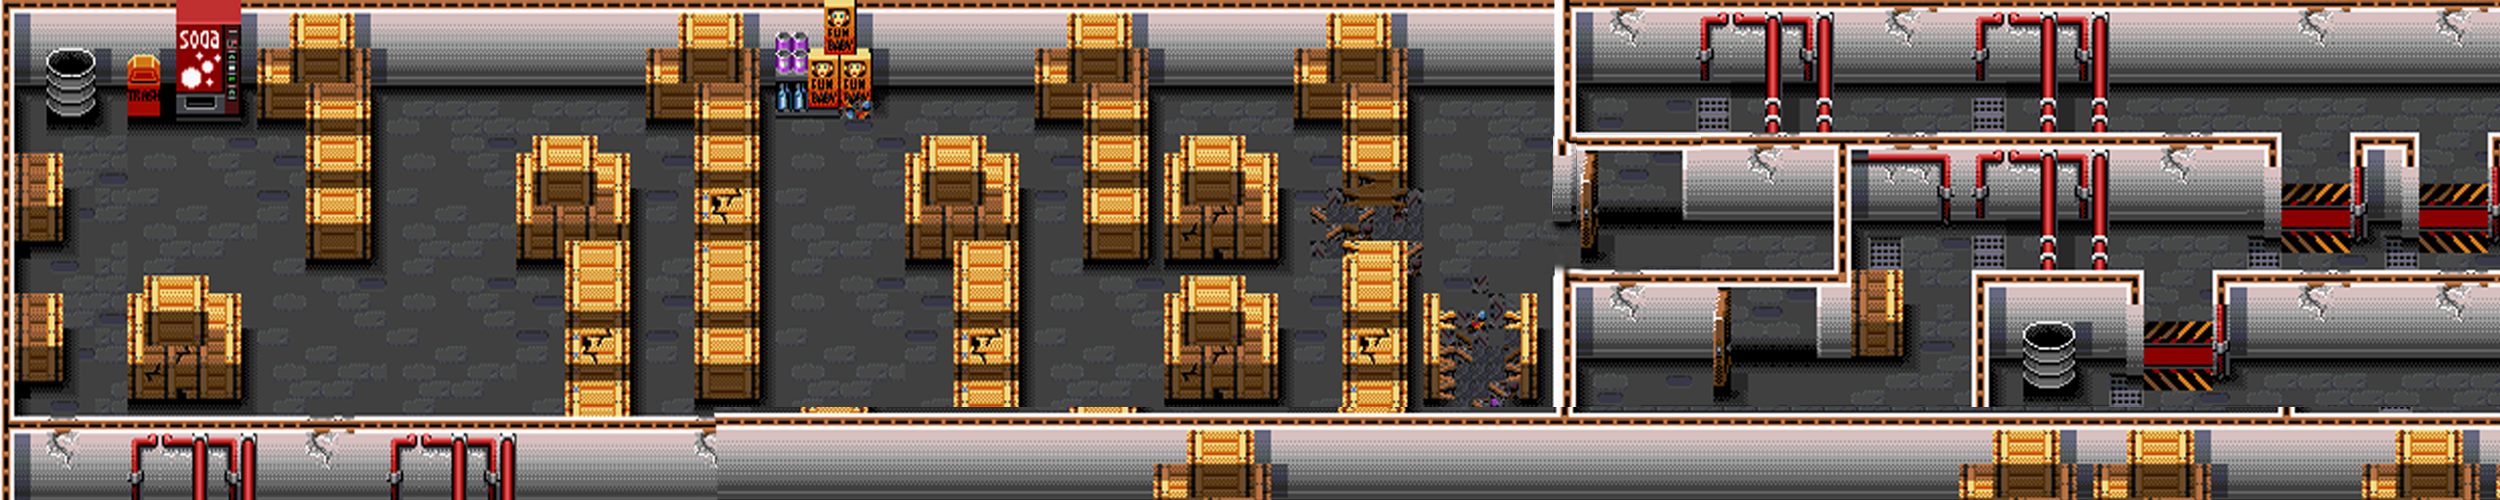
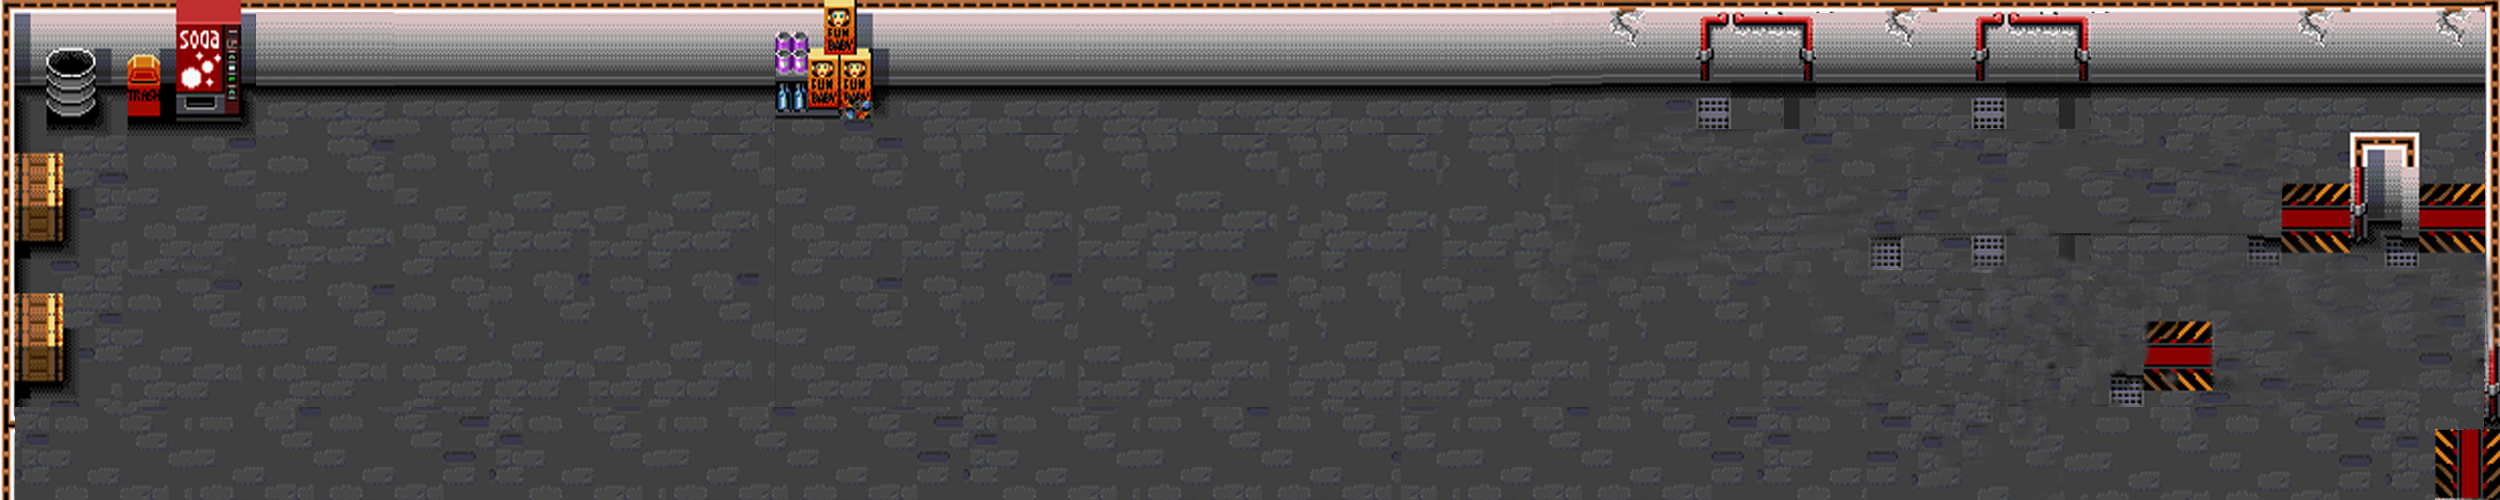
soldado camina, zombies aparecen aleatorios, dispara, zombie recibe disparo, zombies muertos muestran score, falta optimizar hp, generar mas obstaculos y optimizar interfaz de fin de juego

diff --git a/main.js b/main.js
@@ -1,10 +1,14 @@
 //VARIABLES GLOBALES
-const $canvas = document.querySelector("#myCanvas")
+const $canvas = document.querySelector("#myCanvas");
+const $status = document.querySelector("#status")
 const ctx = $canvas.getContext("2d");
+const ctxStatus = $status.getContext("2d");
 let frames = 0;
 let teclas = {};
 let velocity = .1;
 const bullets = [];
+let allZombies = [];
+let diedZombies = [];
 // CLASES DEL JUEGO
 //generico
 class GameAssets{
@@ -21,18 +25,30 @@ class GameAssets{
     }
 }
 
+
 //soldado
 class Character extends GameAssets{
-    constructor(x, y, width, height, img){
-        super(x, y, width, height, img);
+    constructor(x, y, width, height, img, hp){
+        super(x, y, width, height, img,hp);
         this.vx = 0;
         this.vy = 0;
-        this.color = '#5d5d5d';
+        this.hp = 1000;
+       
     } 
     draw(){
         this.x += this.vx;
         this.y += this.vy;
-         ctx.drawImage(this.image, this.x, this.y, this.width, this.height);
+        //estas funciones impiden que el soldado se salga del recuadro de juego
+        if(this.y+this.height < $canvas.height - 380 ){
+            this.y = 120 - this.height ;
+        }else if(this.y+this.height > $canvas.height - 1){
+            this.y =  395 ;
+        }else if(this.x +this.width > $canvas.width){
+            this.x = $canvas.width-90;
+        }else if(this.x + this.width <-$canvas.width+($canvas.width+90)){
+            this.x = 10;
+        }
+        ctx.drawImage(this.image, this.x, this.y, this.width, this.height);
     }
     
     moveLeft(){
@@ -65,35 +81,66 @@ class Character extends GameAssets{
      }
 
      isTouching(obj) {
-        return (this.x <= obj.x + obj.width &&
-        this.x + this.width >= obj.x &&
-        this.y <= obj.y + obj.height &&
-        this.y + this.height >= obj.y)
+        return (
+        this.x < obj.x + obj.width &&
+        this.x + this.width > obj.x &&
+        this.y < obj.y + obj.height &&
+        this.y + this.height > obj.y)
       }
+    damaged(){
+        this.hp-=1;
+    }
 
 }
 
 class Bullet extends GameAssets {
-    constructor(x, y){
-        super(x,y)
-        this.x = x;
-        this.y = y;
-        this.width = 10;
-        this.height = 10;
-        this.color = 'orange';
+    constructor(x, y, width, height, img){
+        super(x, y, width, height, img)
+        this.width = 20;
+        this.height = 15;
+        this.image = new Image();
+        this.image.src = "/media/else/fireBullet.png";
         //this.audio = new Audio();
         //this.audio.src = "https://www.zapsplat.com/wp-content/uploads/2015/sound-effects-69838/cartoon_anime_laser_shoot_hard_fast_001_71523.mp3"
     }
     draw(){
         this.x +=5;
-        ctx.fillStyle = this.color;
-        ctx.fillRect(this.x, this.y, this.width, this.height);
+        ctx.drawImage(this.image, this.x, this.y, this.width, this.height);
     }
-    // shootSound(){
-    //     this.audio.volume = 0.2;
-    //     this.audio.play();
-    // }
+    isTouching(obj) {
+        return (
+        this.x < obj.x + obj.width &&
+        this.x + this.width > obj.x &&
+        this.y < obj.y + obj.height &&
+        this.y + this.height > obj.y)
+    }
+    bulletGone(){
+       console.log('bala se va')
+    }
+    
+}
+class Zombie extends GameAssets {
+    constructor(x, y, width, height, img){
+       super(x, y, width, height, img);
+       this.liveStatus = true;
+       this.image.src = "/media/zombie/zombieOne.png";
+    }
+    draw(){
+        this.x-=2;
+         ctx.drawImage(this.image, this.x, this.y, this.width, this.height);
+    }
+    isTouching(obj) {
+        return (
+        this.x < obj.x + obj.width &&
+        this.x + this.width > obj.x &&
+        this.y < obj.y + obj.height &&
+        this.y + this.height > obj.y)
+    }
+    dies(){
+        this.liveStatus = false
+    }
 
+       
 }
 
 class Background extends GameAssets{
@@ -104,7 +151,7 @@ class Background extends GameAssets{
     }
 
     draw(){
-        //this.x -=.3;
+        this.x -=.3;
          ctx.drawImage(this.image, this.x, this.y, this.width, this.height);
     }
 }
@@ -114,12 +161,17 @@ class Obstacle extends GameAssets {
         super(x, y, width, height, img);
         this.width = width;
         this.height = height;
+        this.color = 'black';
     }
     draw(){
-        //this.x -=.3;
-         ctx.drawImage(this.image, this.x, this.y, this.width, this.height);
+        this.x -=.3;
+         //ctx.drawImage(this.image, this.x, this.y, this.width, this.height);
+         ctx.fillRect( this.x, this.y, this.width, this.height)
+         ctx.fillStyle = this.color;
     }
 }
+
+
 
 // INSTANCIAS DEL JUEGO
 //fondo del laberinto
@@ -128,13 +180,14 @@ const firstBackground = "/media/level1-back.png";
 const player1 = "/media/soldier/soldierStatic.png"
 const background = new Background(0, 0, 2500, 500, firstBackground); 
 
-const soldier = new Character( 20,$canvas.height -80, 90, 90, player1)
+const soldier = new Character( 100,100, 90, 90, player1)
 //zombie - enemigo
+const zombie = "/media/zombie/zombieOne.png"
+//const enemy = new Zombie($canvas.width, 50, 75, 75, zombie)
 //tesoros - gana puntos por conseguir la mayor cantidad
 //paredes u obstaculos
-const boxes = "/media/obstacle1.png";
-const obstacle1 = new Obstacle ( 120, 275, 130, 130, boxes)
-
+//const boxes = "/media/obstacle1.png";
+const obstacle1 = new Obstacle ( 120, 275, 100, 100)
 
 //LOGICA DEL JUEGO
 //si jugador topa con pared se tiene que mover a otro lado
@@ -156,41 +209,98 @@ function update(){
     frames++;
     checkKeys();
     checkObstacle();
+    generateZombies();
     clearCanvas();
-    
+   
     background.draw();
     soldier.draw();
     obstacle1.draw();
-    printBullets(); 
+    drawZombies();
+    printBullets();
+    dieZombie(); 
+    runScore();
+    healthSoldier();
 }
 function checkKeys(){
     if(teclas.ArrowRight)soldier.moveRight();
     if(teclas.ArrowLeft)soldier.moveLeft();
     if(teclas.ArrowUp)soldier.moveUp();
     if(teclas.ArrowDown)soldier.moveDown();
-    if(teclas.c){
-        const bullet = new Bullet(soldier.x, soldier.y+30);
+    if(teclas.d){
+        const bullet = new Bullet(soldier.x+50, soldier.y+30);
         bullets.push(bullet);
     }
     
 }
-function printBullets(){
-    bullets.forEach((bullet)=>{
+
+
+
+function generateZombies() {
+	if (frames % 200 === 0) {
+		const y = Math.floor(Math.random() * 370);
+		const enemy = new Zombie($canvas.width, y, 75, 75, zombie);
+		allZombies.push(enemy);
         
-            bullet.draw();
-        
+	}
+}
+
+function drawZombies(){
+    allZombies.forEach((zombie)=>zombie.draw());
+    allZombies.forEach((zombie)=>{
+        if(soldier.isTouching(zombie)){
+              soldier.damaged();
+               };
     })
 }
 
+
+function printBullets(){
+    bullets.forEach((bullet)=>{
+       bullet.draw();
+       allZombies.forEach((zombie)=>{
+        
+        if(zombie.isTouching(bullet) && bullet.isTouching(zombie)){
+           zombie.dies();
+           diedZombies.push(zombie);
+           bullet.bulletGone();
+        }
+       })
+       
+    })
+}
+
+function dieZombie(){
+   allZombies.forEach((zombie,index)=>{
+       if(zombie.liveStatus === false){
+        allZombies.splice(index,1);
+       }
+   });
+}
+
+function runScore(){
+    let scoreSoldier = diedZombies.length ;
+    ctxStatus.font = "25px sans-serif";
+    ctxStatus.fillStyle = "orange";
+   ctxStatus.fillText( `Died zombies:${scoreSoldier}`, 50, 50);
+}
+
+function healthSoldier(){
+    let hpSoldier = soldier.hp ;
+    ctxStatus.font = "25px sans-serif";
+    ctxStatus.fillStyle = "#fff";
+   ctxStatus.fillText( `HP:${hpSoldier}`, 250, 50);
+}
+
+
 function clearCanvas(){
     ctx.clearRect(0, 0, $canvas.width, $canvas.height);
+    ctxStatus.clearRect(0, 0, $canvas.width, $canvas.height);
 }
 
 function checkObstacle(){
     if(soldier.isTouching(obstacle1)){
         soldier.stopWalking();
-    }
-    
+    };
 }
 
 

diff --git a/index.html b/index.html
@@ -18,6 +18,7 @@
       </aside>
       <section>
         <canvas id="myCanvas" width="1000" height="500" style="border: 1px solid crimson; border-radius: 10px;"></canvas>
+        <canvas id="status" width="1000" height="100" style="border: 1px solid #fff; border-radius: 10px;"></canvas>
       </section>
     </main>
     <script src="main.js"></script>

diff --git a/estilos.css b/estilos.css
@@ -1,4 +1,5 @@
 body{
+    font-family: Impact, Haettenschweiler, 'Arial Narrow Bold', sans-serif;
     margin: 0px;
     padding: 0px;
     background: #292925;
@@ -8,4 +9,7 @@ body{
 }
 canvas{
     background: #fff;
+}
+#status{
+    background: #181813;
 }
